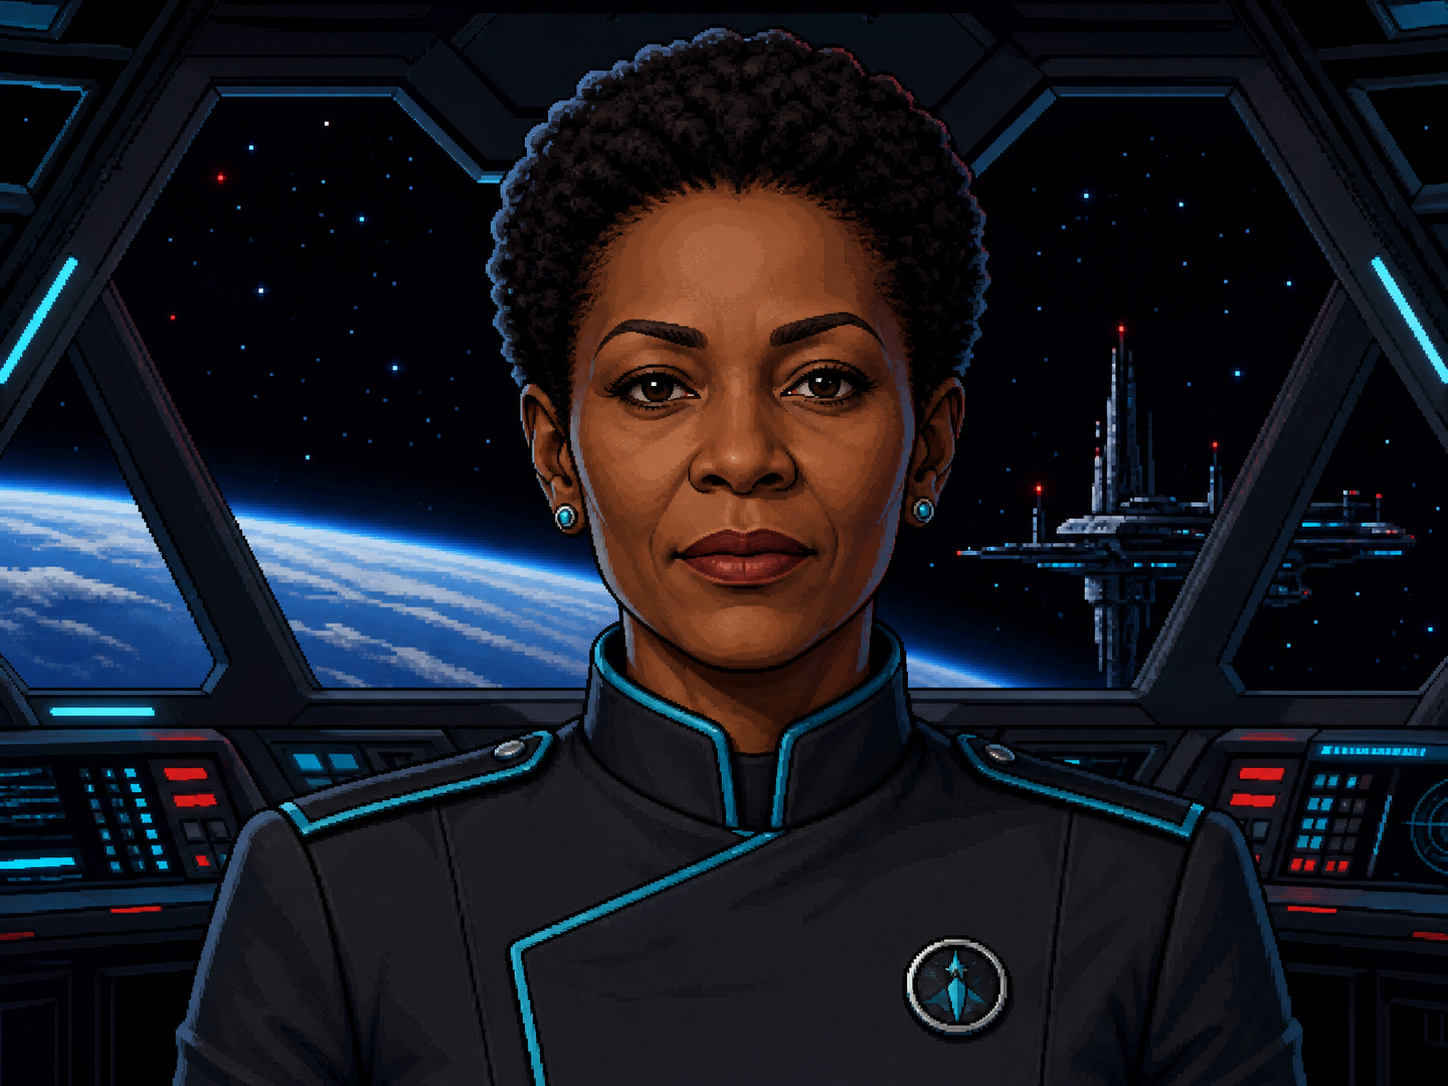
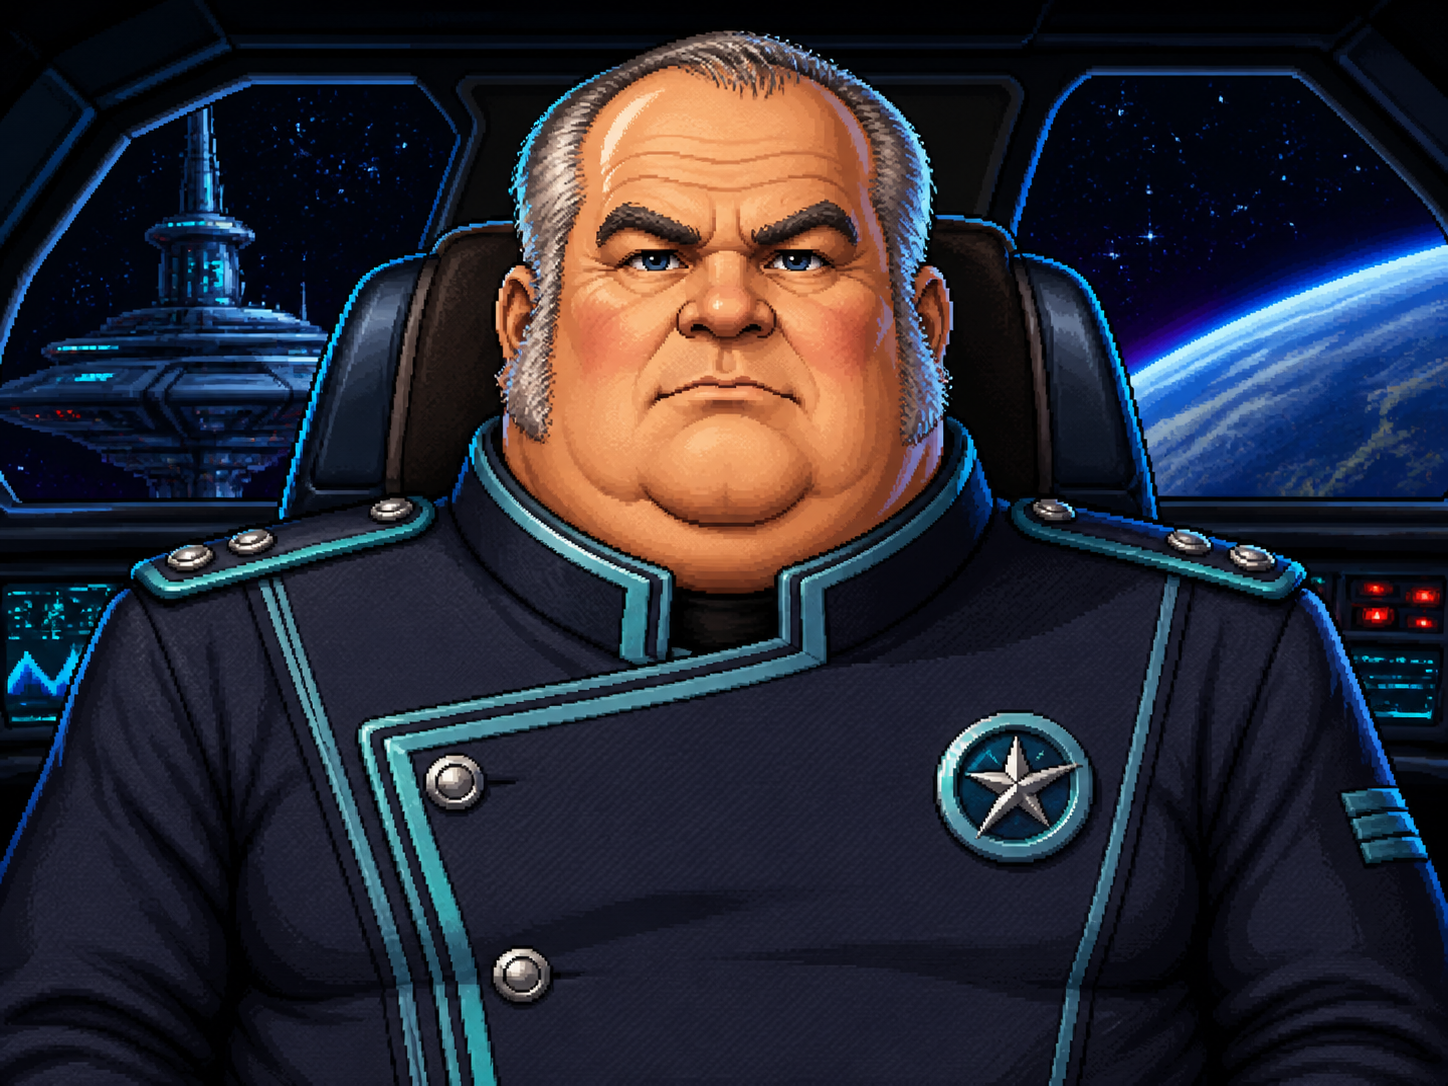
Replace starbase commander portrait

diff --git a/game/index.html b/game/index.html
@@ -56,10 +56,10 @@
         <header class="communication-header"><span id="communication-location">EARTH STARBASE</span><small>COMMUNICATION CHANNEL</small></header>
         <div class="communication-stage">
           <div class="communication-grid"></div>
-          <img id="communication-portrait" class="communication-portrait" src="assets/story/starbase-commander.png" alt="Commander Amara Cole aboard Earth Starbase">
+          <img id="communication-portrait" class="communication-portrait" src="assets/story/starbase-commander.png?v=briggs-1" alt="Commander Walter Briggs aboard Earth Starbase">
           <div class="communication-scan"></div>
           <div class="communication-ident">
-            <strong id="communication-name">COMMANDER AMARA COLE</strong>
+            <strong id="communication-name">COMMANDER WALTER BRIGGS</strong>
             <span id="communication-title">EARTH STARBASE COMMANDER</span>
           </div>
         </div>

diff --git a/game/story.js b/game/story.js
@@ -103,11 +103,11 @@
   ];
   const COMMUNICATION_CONTACTS = {
     starbaseCommander:{
-      name:'COMMANDER AMARA COLE',
+      name:'COMMANDER WALTER BRIGGS',
       title:'EARTH STARBASE COMMANDER',
       location:'EARTH STARBASE',
-      portrait:'assets/story/starbase-commander.png',
-      alt:'Commander Amara Cole aboard Earth Starbase',
+      portrait:'assets/story/starbase-commander.png?v=briggs-1',
+      alt:'Commander Walter Briggs aboard Earth Starbase',
       greeting:'welcome',
       nodes:{
         welcome:{
